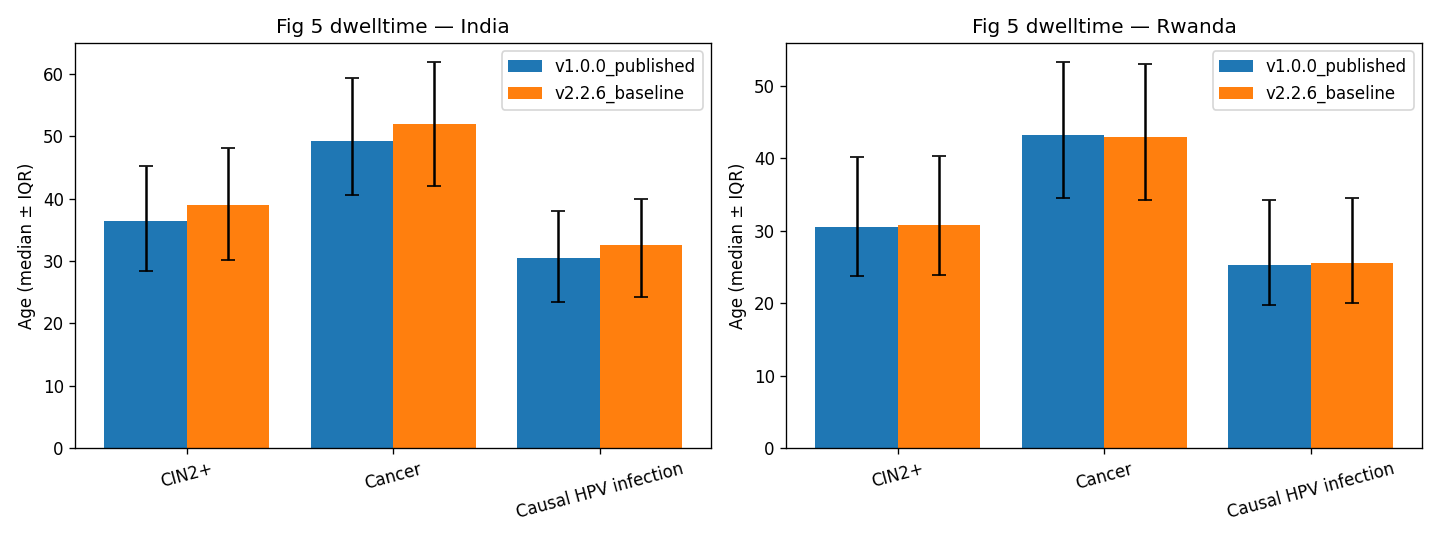
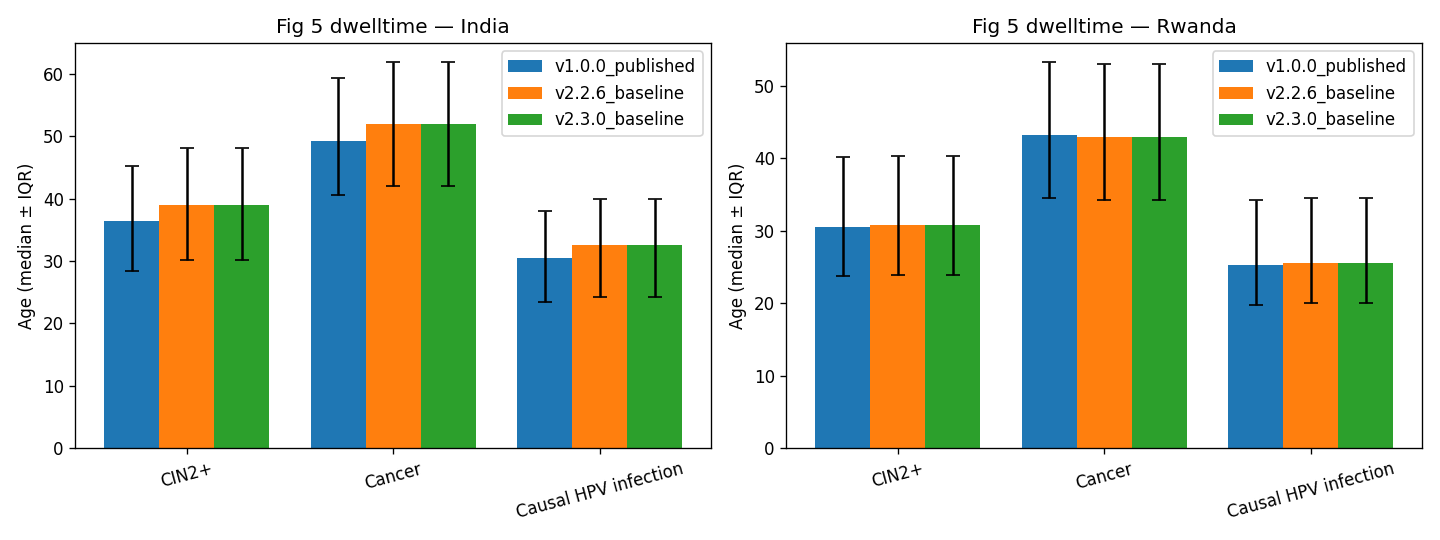
Convert layer_probs and cross-layer probs to annual for HPVsim v2.3
HPVsim v2.3 treats layer_probs and m/f_cross_layer as annual probabilities,
whereas previously they were per-timestep. This repo's network parameters
were defined as per-timestep, so we convert them to annual at the boundary
in make_sim() using p_annual = 1 - (1 - p_timestep)^(1/dt).

Adds results/v2.3.0_baseline/ regenerated under v2.3.0:
 - fig1_data.npz: exact match with v2.2.6 (natural-history parameters)
 - fig5_partners.csv, fig5_dwelltime_summary.csv, fig6_asr.csv: stat equiv
Updates figures/compare/ to overlay the v2.3.0 baseline alongside v1.0.0
and v2.2.6.

Validates ticket #68.

diff --git a/plot_fig56.py b/plot_fig56.py
@@ -152,15 +152,40 @@ class dwelltime_by_genotype(hpv.Analyzer):
         return
 
 
+def _to_annual_prob(p, dt):
+    """Convert a per-timestep probability to an annual probability (HPVsim v2.3+)."""
+    p = np.clip(p, 0, 1 - 1e-10)
+    return 1 - (1 - p) ** (1 / dt)
+
+
+def _layer_probs_to_annual(layer_probs, dt):
+    """Convert a layer_probs dict (rows = age, female, male) from per-timestep to annual."""
+    out = {}
+    for lkey, lp in layer_probs.items():
+        lp_new = lp.copy().astype(float)
+        for row in [1, 2]:
+            lp_new[row, :] = _to_annual_prob(lp_new[row, :], dt)
+        out[lkey] = lp_new
+    return out
+
+
 def make_sim(location, seed=0, debug=0, add_analyzers=False, interventions=None):
     """ Make a single sim for a given network """
 
     # Parameters
     layer_probs, m_partners, f_partners, m_cross_layer, f_cross_layer = make_network(location)
 
+    dt = [0.25, 1.0][debug]
+
+    # HPVsim v2.3+ treats layer_probs and cross-layer probabilities as annual,
+    # but the values defined in make_network() were calibrated as per-timestep.
+    layer_probs = _layer_probs_to_annual(layer_probs, dt)
+    m_cross_layer = _to_annual_prob(m_cross_layer, dt)
+    f_cross_layer = _to_annual_prob(f_cross_layer, dt)
+
     pars = dict(
         n_agents=[20e3, 5e3][debug],
-        dt=[0.25, 1.0][debug],
+        dt=dt,
         start=[1960, 2000][debug],
         burnin=[30, 0][debug],
         end=2020,
